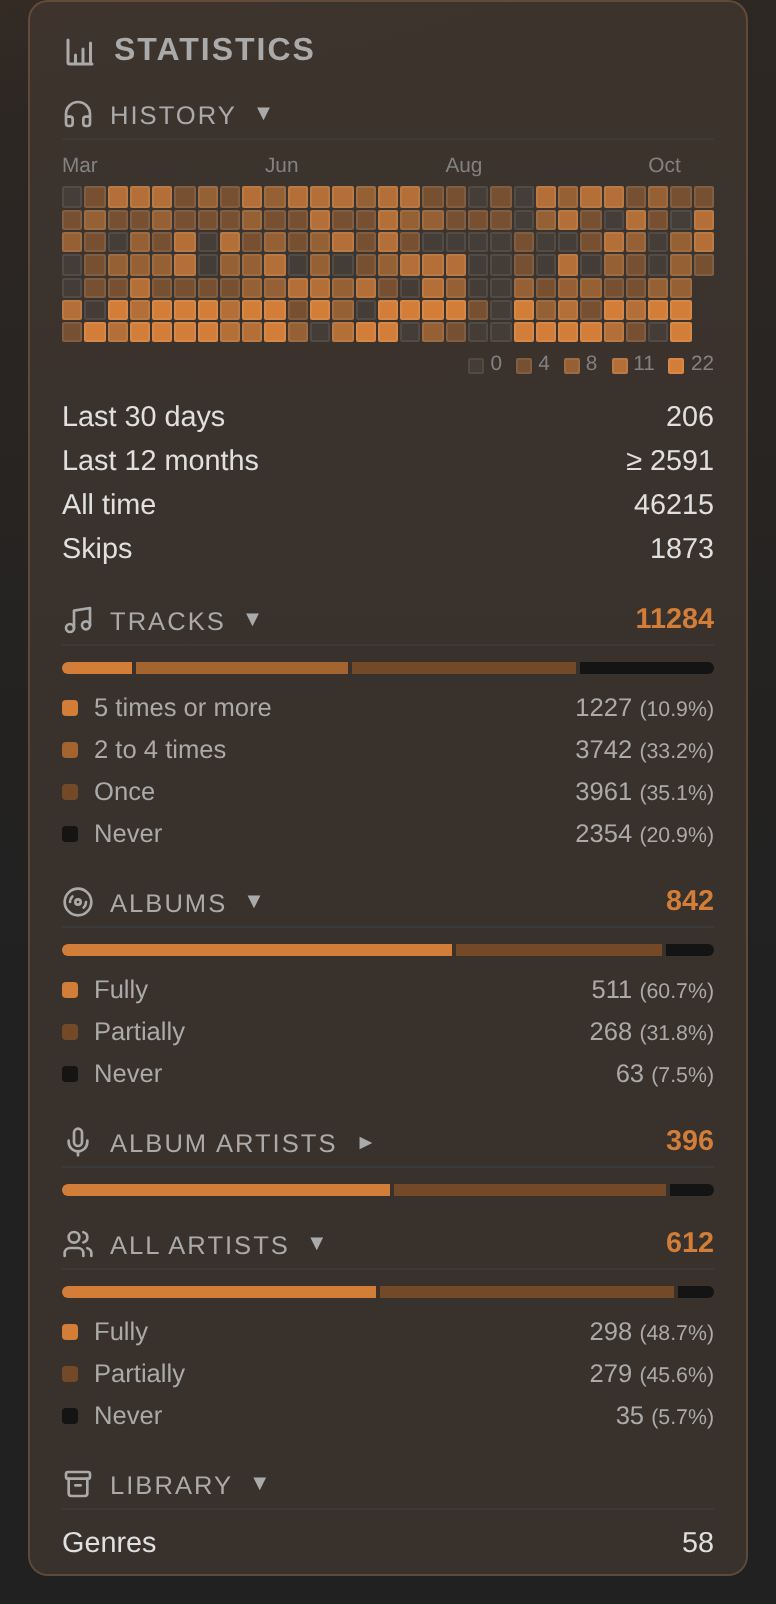
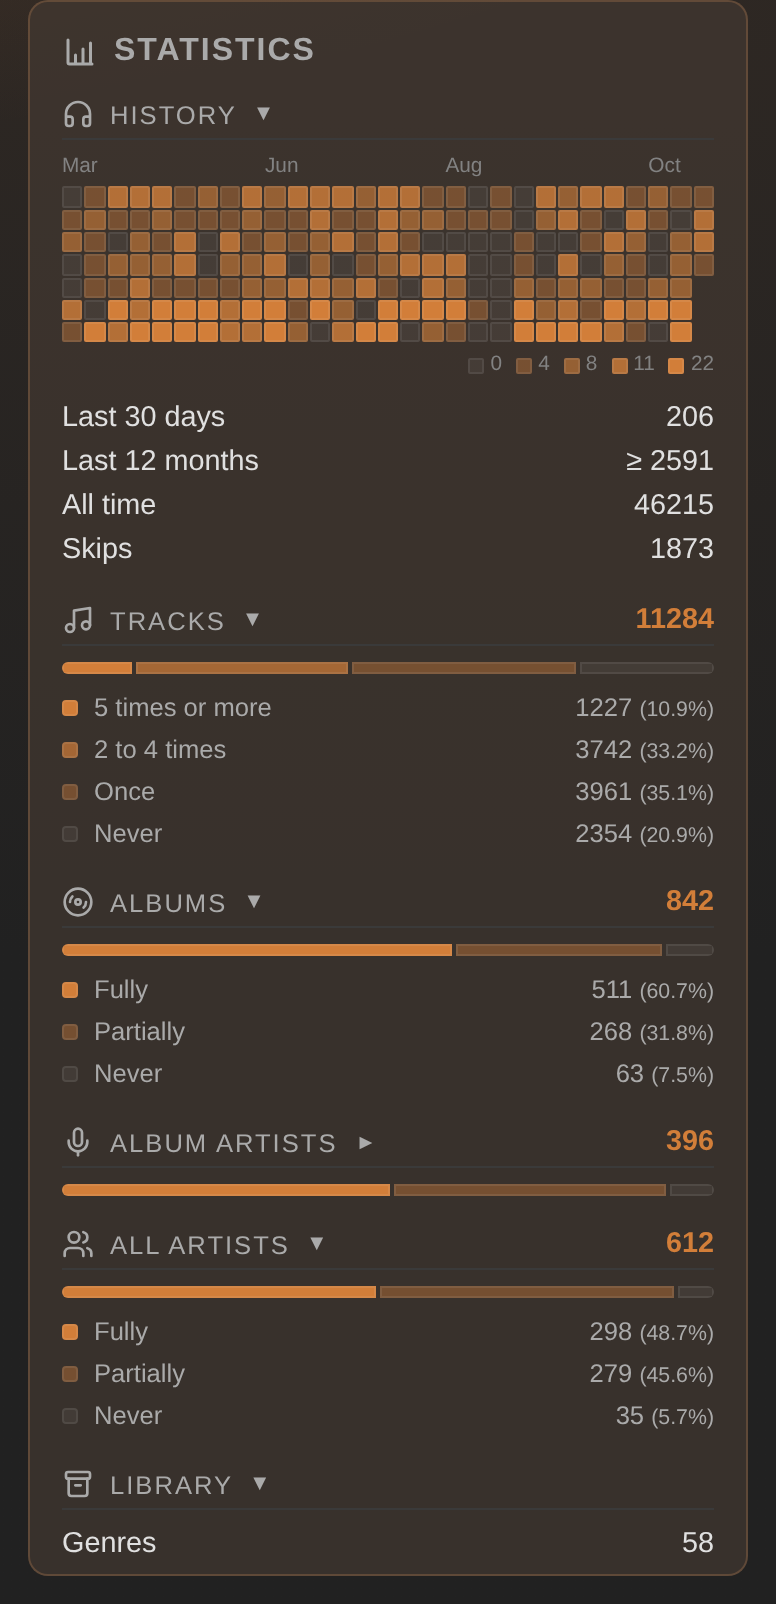
fix(stats): shade the completion bars like the listening calendar
The bars still mixed their shades into the near-black --nothing, so a
never-played segment was the most striking one. They now take the
calendar's scale: the accent, then 70% and 40% of it over the card,
and the same faint veil for never played, with the same translucent
outline on segments and markers. --nothing goes away; --empty-fill
and --cell-edge carry the shared values.

Claude-Session: https://claude.ai/code/session_016eBy9U35yZNsMjphrZaaQw

diff --git a/static/style.css b/static/style.css
@@ -33,7 +33,8 @@
     --border-color: #3a3a3a;   /* hairlines: rules, cover edge */
     --page-pad: 16px;          /* body gutter, subtracted by the viewport-fitting calc */
     --surface: #303030;        /* raised neutral fills: progress track, cards */
-    --nothing: #141414;        /* a play level never reached */
+    --empty-fill: rgba(255, 255, 255, 0.05);  /* a play level never reached, a day without plays */
+    --cell-edge: inset 0 0 0 1px rgba(255, 255, 255, 0.08);
     --text-error: #ffb7c0;
     transition: --tint-color 900ms ease, --accent-color 900ms ease;
 }
@@ -215,9 +216,9 @@ hr {
 }
 
 .stat-level-1 { --level-color: var(--accent-color); }
-.stat-level-2 { --level-color: color-mix(in srgb, var(--accent-color) 75%, var(--nothing)); }
-.stat-level-3 { --level-color: color-mix(in srgb, var(--accent-color) 50%, var(--nothing)); }
-.stat-level-4 { --level-color: var(--nothing); }
+.stat-level-2 { --level-color: color-mix(in srgb, var(--accent-color) 70%, transparent); }
+.stat-level-3 { --level-color: color-mix(in srgb, var(--accent-color) 40%, transparent); }
+.stat-level-4 { --level-color: var(--empty-fill); }
 
 .stat-bar {
     display: flex;
@@ -231,6 +232,7 @@ hr {
 .stat-bar-seg {
     flex: 0 0 0;
     background: var(--level-color);
+    box-shadow: var(--cell-edge);
 }
 
 .listening-calendar {
@@ -280,8 +282,8 @@ hr {
     border-radius: 1px;
 }
 
-.calendar-day[class*="calendar-level-"] { box-shadow: inset 0 0 0 1px rgba(255, 255, 255, 0.08); }
-.calendar-level-0 { background: rgba(255, 255, 255, 0.05); }
+.calendar-day[class*="calendar-level-"] { box-shadow: var(--cell-edge); }
+.calendar-level-0 { background: var(--empty-fill); }
 .calendar-level-1 { background: color-mix(in srgb, var(--accent-color) 40%, transparent); }
 .calendar-level-2 { background: color-mix(in srgb, var(--accent-color) 60%, transparent); }
 .calendar-level-3 { background: color-mix(in srgb, var(--accent-color) 80%, transparent); }
@@ -339,6 +341,7 @@ hr {
     height: 8px;
     border-radius: 2px;
     background: var(--level-color);
+    box-shadow: var(--cell-edge);
 }
 
 .now-playing {

diff --git a/.claude/skills/frontend/SKILL.md b/.claude/skills/frontend/SKILL.md
@@ -119,9 +119,9 @@ The card shows a 512px thumbnail; the overlay paints that cached thumbnail first
 
 ## Stats panel
 
-Each `.stat-group` folds on a click of its title; collapsed, it hides its `.stat-row`s but keeps its title total and its `.stat-bar`. The completion groups (tracks, albums, both artist counts) carry that bar: one `.stat-bar-seg` per sub row, sized by `flex-grow` from the row's percentage. The CSP refuses inline `style` attributes, so the template ships each percentage as `data-pct` and `paintStatBars` applies it through the CSSOM, on load and after every `/stats.json` poll; a zero segment is `hidden` so it leaves no gap. Each segment's `title` is copied from its legend row (`statBarTitle`), so hovering the bar of a collapsed group still gives the figures. A `stat-level-1`…`stat-level-4` class on both the segment and its row sets `--level-color`, the row's square marker doubling as the bar's legend: the accent for the most played, then 75% and 50% of it mixed into `--nothing`, and `--nothing` itself (near-black) for never played: one scale from black to the accent.
+Each `.stat-group` folds on a click of its title; collapsed, it hides its `.stat-row`s but keeps its title total and its `.stat-bar`. The completion groups (tracks, albums, both artist counts) carry that bar: one `.stat-bar-seg` per sub row, sized by `flex-grow` from the row's percentage. The CSP refuses inline `style` attributes, so the template ships each percentage as `data-pct` and `paintStatBars` applies it through the CSSOM, on load and after every `/stats.json` poll; a zero segment is `hidden` so it leaves no gap. Each segment's `title` is copied from its legend row (`statBarTitle`), so hovering the bar of a collapsed group still gives the figures. A `stat-level-1`…`stat-level-4` class on both the segment and its row sets `--level-color`, the row's square marker doubling as the bar's legend: the accent for the most played, then the accent at 70% and 40% opacity over the card, and `--empty-fill` (a 5% white veil) for never played. Segments and markers carry `--cell-edge`, a 1px translucent inset outline: the same scale and outline as the listening calendar, so a level never reached stays faint instead of standing out.
 
-The History group opens with the listening calendar (`#listening-calendar`) when `/stats.json` carries a `listening_calendar`, hidden otherwise. It ships as JSON in `#calendar-data` and `renderCalendar` rebuilds it — only when the data changed — on load and after each stats poll: one column per Monday-to-Sunday week up to the server's `today`, starting a year back or at the history's `start` when that is younger — though never fewer than `CALENDAR_MIN_WEEKS` (26) columns, which caps the size of a day — `calendar-level-0` (a 5% white veil) for a day without plays and four shades cut at the quartiles of the days with plays, so they fit each library's pace: the accent at 40, 60 and 80% opacity over the card, then the accent itself, so even the quietest day reads as orange and a day with no plays stays faint instead of standing out. Every shaded cell, zero included, carries the same 1px translucent inset outline, which is what tells a zero apart from an empty slot. Days before the history's `start`, only drawn when the history is shorter than that minimum, stay transparent, unoutlined and unlabelled, so they never read as days without music. Month names come from `Intl` in the page's language, from the history's first column on and one every `CALENDAR_LABEL_WEEKS` columns since a month is too narrow for its name in the side panel; each day's `title` carries its date and count. The legend under it follows each shade with its upper bound (`.calendar-bound`): 0, the three quartile thresholds, then the busiest day's count. The expanded strip then keeps only the most recent weeks that fit the box at `CALENDAR_MIN_DAY_PX` (10px) a day — about 26 to 33 in the side panel — measured from the box's width and redrawn on resize, so a year's history never shrinks the days below that. Collapsing the History group swaps it for `.calendar-weeks`, one row with a cell per week of the same span, shaded at the quartiles of the week totals (`calendarWeeks`), and reveals the 12-month figure in the group title (`.collapsed-only`, titled with its label); expanded, the row and the title figure hide again. Below it, a velocity whose `_partial` flag is set (`data-stat-partial`) reads `≥ N` with `velocity_partial` as its title, rendered by the template and kept by `renderStats`.
+The History group opens with the listening calendar (`#listening-calendar`) when `/stats.json` carries a `listening_calendar`, hidden otherwise. It ships as JSON in `#calendar-data` and `renderCalendar` rebuilds it — only when the data changed — on load and after each stats poll: one column per Monday-to-Sunday week up to the server's `today`, starting a year back or at the history's `start` when that is younger — though never fewer than `CALENDAR_MIN_WEEKS` (26) columns, which caps the size of a day — `calendar-level-0` (`--empty-fill`, as for the bars' never-played level) for a day without plays and four shades cut at the quartiles of the days with plays, so they fit each library's pace: the accent at 40, 60 and 80% opacity over the card, then the accent itself, so even the quietest day reads as orange and a day with no plays stays faint instead of standing out. Every shaded cell, zero included, carries `--cell-edge`, which is what tells a zero apart from an empty slot. Days before the history's `start`, only drawn when the history is shorter than that minimum, stay transparent, unoutlined and unlabelled, so they never read as days without music. Month names come from `Intl` in the page's language, from the history's first column on and one every `CALENDAR_LABEL_WEEKS` columns since a month is too narrow for its name in the side panel; each day's `title` carries its date and count. The legend under it follows each shade with its upper bound (`.calendar-bound`): 0, the three quartile thresholds, then the busiest day's count. The expanded strip then keeps only the most recent weeks that fit the box at `CALENDAR_MIN_DAY_PX` (10px) a day — about 26 to 33 in the side panel — measured from the box's width and redrawn on resize, so a year's history never shrinks the days below that. Collapsing the History group swaps it for `.calendar-weeks`, one row with a cell per week of the same span, shaded at the quartiles of the week totals (`calendarWeeks`), and reveals the 12-month figure in the group title (`.collapsed-only`, titled with its label); expanded, the row and the title figure hide again. Below it, a velocity whose `_partial` flag is set (`data-stat-partial`) reads `≥ N` with `velocity_partial` as its title, rendered by the template and kept by `renderStats`.
 
 ## Mosaic and recent-plays pile
 
